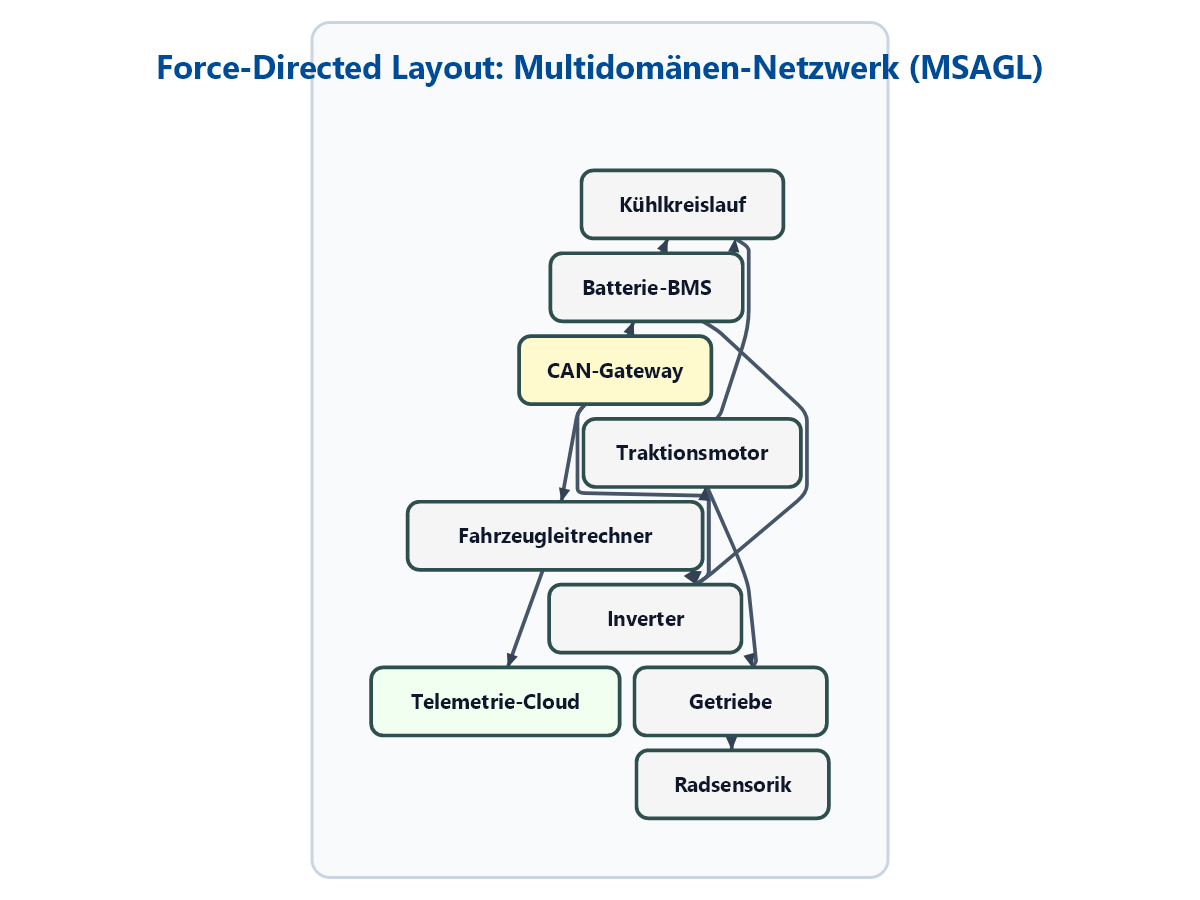
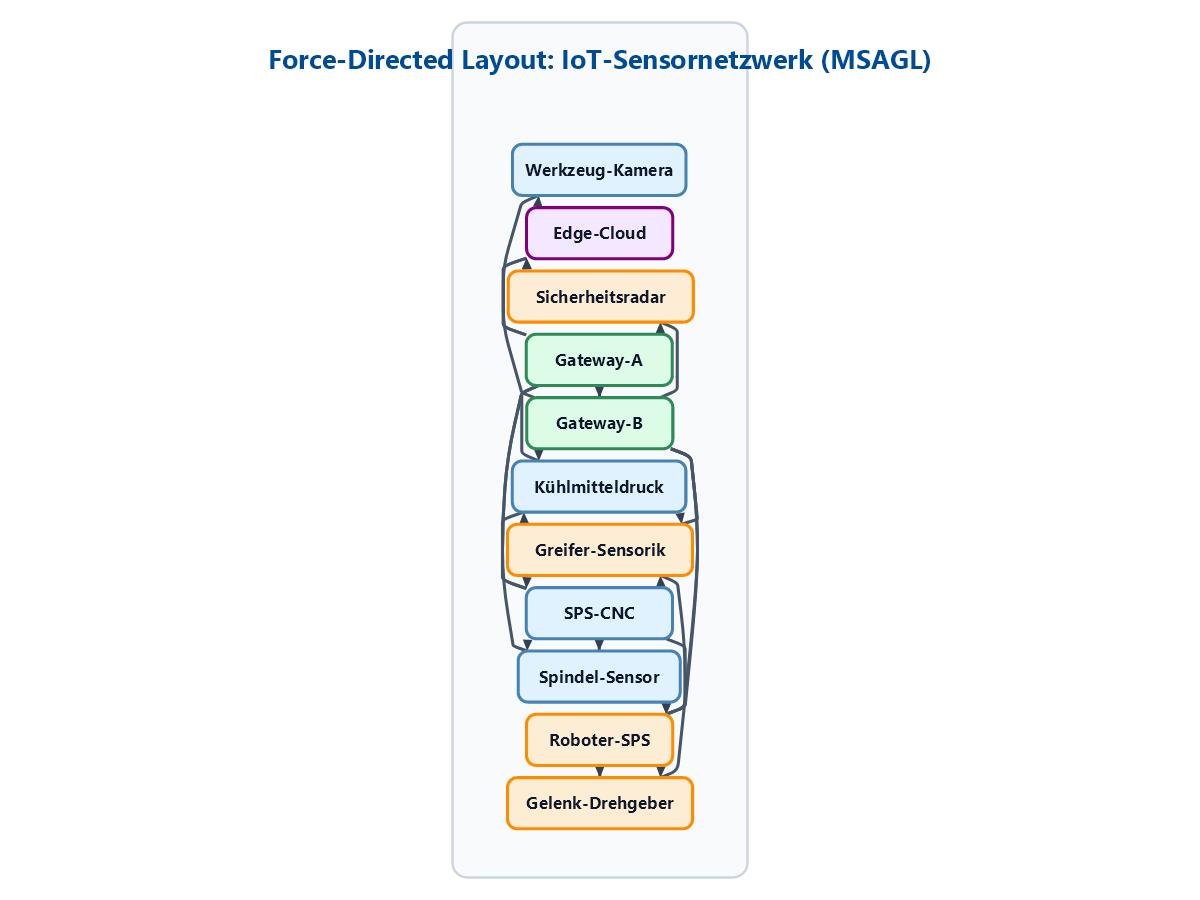
Didaktik: Force-Directed Layout auf vermaschtes Industrie-4.0 IoT-Sensornetzwerk umgestellt

diff --git a/Werkzeuge/GrafikGenerator/Chapter04Graphics.cs b/Werkzeuge/GrafikGenerator/Chapter04Graphics.cs
@@ -686,16 +686,27 @@ namespace GrafikGenerator
             var graph = new Microsoft.Msagl.Drawing.Graph("Netzwerk");
             graph.Attr.BackgroundColor = Microsoft.Msagl.Drawing.Color.White;
 
-            graph.AddEdge("CAN-Gateway", "Inverter");
-            graph.AddEdge("CAN-Gateway", "Batterie-BMS");
-            graph.AddEdge("CAN-Gateway", "Fahrzeugleitrechner");
-            graph.AddEdge("Inverter", "Traktionsmotor");
-            graph.AddEdge("Batterie-BMS", "Inverter");
-            graph.AddEdge("Batterie-BMS", "Kühlkreislauf");
-            graph.AddEdge("Traktionsmotor", "Getriebe");
-            graph.AddEdge("Traktionsmotor", "Kühlkreislauf");
-            graph.AddEdge("Getriebe", "Radsensorik");
-            graph.AddEdge("Fahrzeugleitrechner", "Telemetrie-Cloud");
+            // Cluster 1: CNC-Bearbeitungsstation
+            graph.AddEdge("Gateway-A", "SPS-CNC");
+            graph.AddEdge("Gateway-A", "Spindel-Sensor");
+            graph.AddEdge("Gateway-A", "Kühlmitteldruck");
+            graph.AddEdge("Gateway-A", "Werkzeug-Kamera");
+            graph.AddEdge("SPS-CNC", "Spindel-Sensor");
+            graph.AddEdge("SPS-CNC", "Kühlmitteldruck");
+
+            // Cluster 2: Roboter-Handling
+            graph.AddEdge("Gateway-B", "Roboter-SPS");
+            graph.AddEdge("Gateway-B", "Greifer-Sensorik");
+            graph.AddEdge("Gateway-B", "Gelenk-Drehgeber");
+            graph.AddEdge("Gateway-B", "Sicherheitsradar");
+            graph.AddEdge("Roboter-SPS", "Greifer-Sensorik");
+            graph.AddEdge("Roboter-SPS", "Gelenk-Drehgeber");
+
+            // Cluster-Kopplung & Cloud
+            graph.AddEdge("Gateway-A", "Gateway-B");
+            graph.AddEdge("SPS-CNC", "Roboter-SPS");
+            graph.AddEdge("Gateway-A", "Edge-Cloud");
+            graph.AddEdge("Gateway-B", "Edge-Cloud");
 
             foreach (var node in graph.Nodes)
             {
@@ -706,15 +717,39 @@ namespace GrafikGenerator
                 node.Attr.Shape = Microsoft.Msagl.Drawing.Shape.Ellipse;
                 node.Attr.Padding = 8;
             }
-            graph.FindNode("CAN-Gateway").Attr.FillColor = Microsoft.Msagl.Drawing.Color.LemonChiffon;
-            graph.FindNode("Telemetrie-Cloud").Attr.FillColor = Microsoft.Msagl.Drawing.Color.Honeydew;
+
+            // Cluster 1 Farbgebung: Soft Blue
+            string[] cluster1 = { "SPS-CNC", "Spindel-Sensor", "Kühlmitteldruck", "Werkzeug-Kamera" };
+            foreach (var id in cluster1)
+            {
+                var n = graph.FindNode(id);
+                if (n != null) { n.Attr.FillColor = new Microsoft.Msagl.Drawing.Color(224, 242, 254); n.Attr.Color = Microsoft.Msagl.Drawing.Color.SteelBlue; }
+            }
+
+            // Cluster 2 Farbgebung: Soft Amber
+            string[] cluster2 = { "Roboter-SPS", "Greifer-Sensorik", "Gelenk-Drehgeber", "Sicherheitsradar" };
+            foreach (var id in cluster2)
+            {
+                var n = graph.FindNode(id);
+                if (n != null) { n.Attr.FillColor = new Microsoft.Msagl.Drawing.Color(254, 237, 213); n.Attr.Color = Microsoft.Msagl.Drawing.Color.DarkOrange; }
+            }
+
+            // Gateways: Soft Emerald
+            var nGwA = graph.FindNode("Gateway-A");
+            if (nGwA != null) { nGwA.Attr.FillColor = new Microsoft.Msagl.Drawing.Color(220, 252, 231); nGwA.Attr.Color = Microsoft.Msagl.Drawing.Color.SeaGreen; }
+            var nGwB = graph.FindNode("Gateway-B");
+            if (nGwB != null) { nGwB.Attr.FillColor = new Microsoft.Msagl.Drawing.Color(220, 252, 231); nGwB.Attr.Color = Microsoft.Msagl.Drawing.Color.SeaGreen; }
+
+            // Cloud: Soft Purple
+            var nCloud = graph.FindNode("Edge-Cloud");
+            if (nCloud != null) { nCloud.Attr.FillColor = new Microsoft.Msagl.Drawing.Color(243, 232, 255); nCloud.Attr.Color = Microsoft.Msagl.Drawing.Color.Purple; }
 
             var geomGraph = new Microsoft.Msagl.Core.Layout.GeometryGraph();
             foreach (var n in graph.Nodes)
             {
-                double w = Math.Max(130, n.Id.Length * 10.5);
+                double w = Math.Max(120, n.Id.Length * 9.5);
                 var geomNode = new Microsoft.Msagl.Core.Layout.Node(
-                    CurveFactory.CreateRectangle(w, 46, new Microsoft.Msagl.Core.Geometry.Point(0, 0)),
+                    CurveFactory.CreateRectangle(w, 42, new Microsoft.Msagl.Core.Geometry.Point(0, 0)),
                     n
                 );
                 n.GeometryNode = geomNode;
@@ -732,7 +767,7 @@ namespace GrafikGenerator
             LayoutHelpers.CalculateLayout(geomGraph, settings, null);
 
             var pngFile = Path.Combine(targetDir, "MSAGL_ForceDirected_Layout.png");
-            ExportMsaglGraph(graph, geomGraph, pngFile, "Force-Directed Layout: Multidomänen-Netzwerk (MSAGL)");
+            ExportMsaglGraph(graph, geomGraph, pngFile, "Force-Directed Layout: IoT-Sensornetzwerk (MSAGL)");
             Console.WriteLine($"Erzeugt (MSAGL PNG): {pngFile}");
         }
 
@@ -852,7 +887,7 @@ namespace GrafikGenerator
 
             using var image = SKImage.FromBitmap(bitmap);
             using var data = image.Encode(SKEncodedImageFormat.Png, 100);
-            using var fs = File.OpenWrite(pngPath);
+            using var fs = File.Create(pngPath);
             data.SaveTo(fs);
         }
     }

diff --git a/Folien/04_Visualisierung_2D_Diagramme/Folien.md b/Folien/04_Visualisierung_2D_Diagramme/Folien.md
@@ -1651,12 +1651,11 @@ Für ungerichtete Komponenten-Netzwerke eignet sich das Kräfte-Verfahren:
 <div class="columns">
 <div class="two">
 
-Vollautomatisch berechnete Netzwerktopologie eines Antriebsstrangs:
+Netzwerktopologie einer Industrie-4.0-Fertigungszelle:
 
-- **Busknoten:** `CAN-Gateway` vernetzt `Inverter`, `Batterie-BMS` und `Fahrzeugleitrechner`.
-- **Antrieb & Kühlung:** `Inverter`, `Traktionsmotor`, `Getriebe`, `Radsensorik` und `Kühlkreislauf`.
-- **Telemetrie:** Anbindung an die `Telemetrie-Cloud`.
-- Kräfte-Gleichgewicht entflechtet Knoten gleichmäßig.
+- **Cluster 1 (CNC-Zelle):** `Gateway-A` bündelt `SPS-CNC`, `Spindel-Sensor`, `Kühlmitteldruck` und `Werkzeug-Kamera`.
+- **Cluster 2 (Roboter):** `Gateway-B` bündelt `Roboter-SPS`, `Greifer-Sensorik`, `Gelenk-Drehgeber` und `Sicherheitsradar`.
+- **Backbone & Cloud:** `Gateway-A` $\leftrightarrow$ `Gateway-B` und Anbindung an die `Edge-Cloud`.
 
 </div>
 <div class="three">
@@ -1671,26 +1670,26 @@ Vollautomatisch berechnete Netzwerktopologie eines Antriebsstrangs:
 ### MSAGL API: Topologieaufbau & Styling
 
 ```csharp
-var graph = new Microsoft.Msagl.Drawing.Graph("Antriebsstrang");
+var graph = new Microsoft.Msagl.Drawing.Graph("Fertigungszelle");
 
-// 1. Kanten definieren (Signal- und Kraftfluss)
-graph.AddEdge("CAN-Gateway", "Inverter");
-graph.AddEdge("Inverter", "Traktionsmotor");
-graph.AddEdge("Traktionsmotor", "Getriebe");
+// 1. Kanten definieren (Signal- und Sensornetzwerk)
+graph.AddEdge("Gateway-A", "SPS-CNC");
+graph.AddEdge("Gateway-A", "Spindel-Sensor");
+graph.AddEdge("Gateway-A", "Gateway-B");
 
 // 2. Visuelles Styling von Knoten und Kanten
-var invNode = graph.FindNode("Inverter");
-invNode.Attr.FillColor = Microsoft.Msagl.Drawing.Color.LightSkyBlue;
-invNode.Attr.Shape = Microsoft.Msagl.Drawing.Shape.Box;
+var spsNode = graph.FindNode("SPS-CNC");
+spsNode.Attr.FillColor = Microsoft.Msagl.Drawing.Color.LightSkyBlue;
+spsNode.Attr.Shape = Microsoft.Msagl.Drawing.Shape.Box;
 
-var canEdge = graph.AddEdge("CAN-Gateway", "Fahrzeugleitrechner");
-canEdge.Attr.Color = Microsoft.Msagl.Drawing.Color.SteelBlue;
+var linkEdge = graph.AddEdge("Gateway-A", "Edge-Cloud");
+linkEdge.Attr.Color = Microsoft.Msagl.Drawing.Color.Purple;
 
 // 3. Im WPF-GraphControl visualisieren
 GraphControl.Graph = graph;
 ```
 
-- Das Objekt `graph` definiert die Netzwerktopologie und weist `invNode` sowie `canEdge` visuelle Attribute zu.
+- Das Objekt `graph` definiert die Netzwerktopologie und weist `spsNode` sowie `linkEdge` visuelle Attribute zu.
 
 ---
 

diff --git a/Export/README.md b/Export/README.md
@@ -3,7 +3,7 @@
 **Lehrveranstaltung:** Systemsimulation / Digitaler Zwilling  
 **Studiengang:** B.Sc. Automatisierungstechnik, 5. Semester  
 **Institution:** Fachhochschule Oberösterreich – Campus Wels  
-**Zuletzt generiert:** 2026-11-03 16:47:57 UTC  
+**Zuletzt generiert:** 2026-11-03 16:52:38 UTC  
 
 Dieses Verzeichnis enthält alle druckreifen, vollständigen PDF-Unterlagen für den Upload auf Moodle.
 
